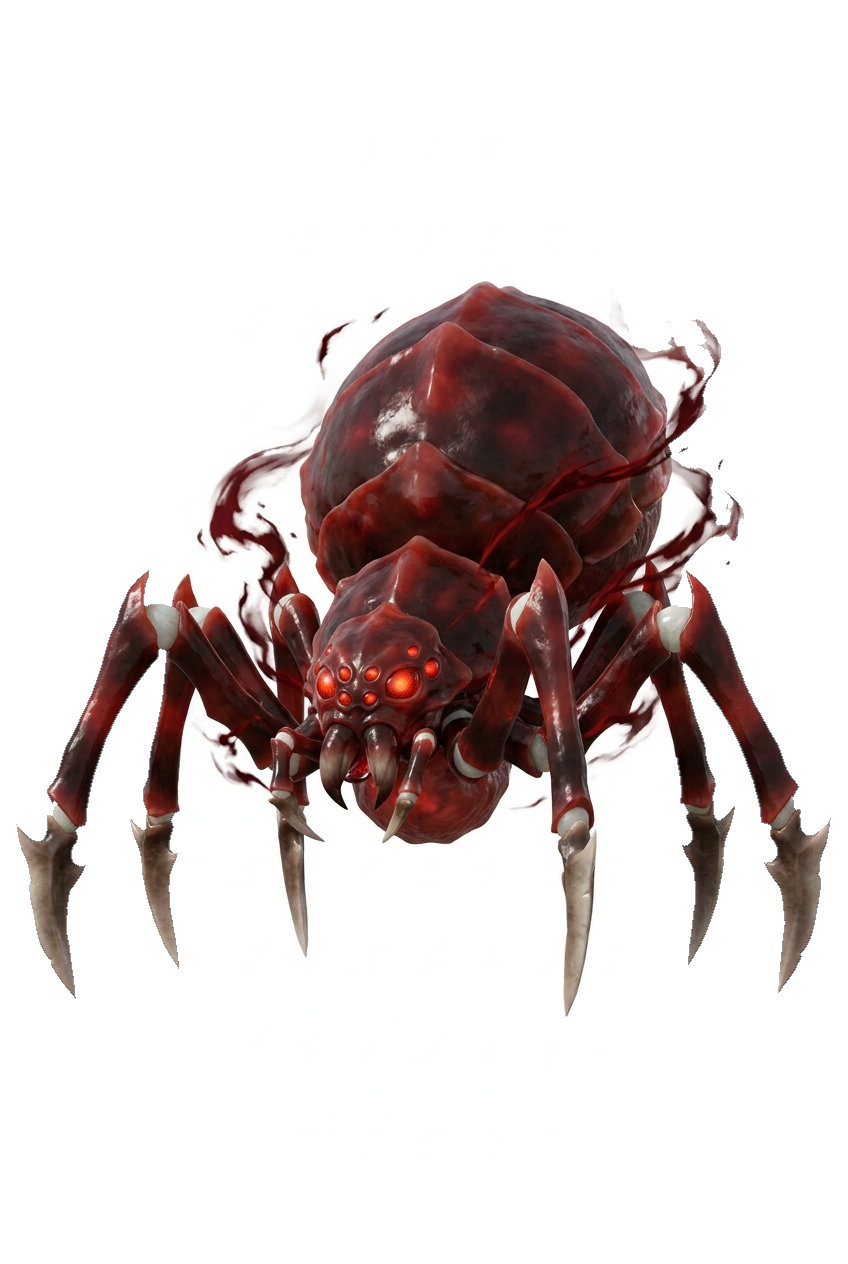
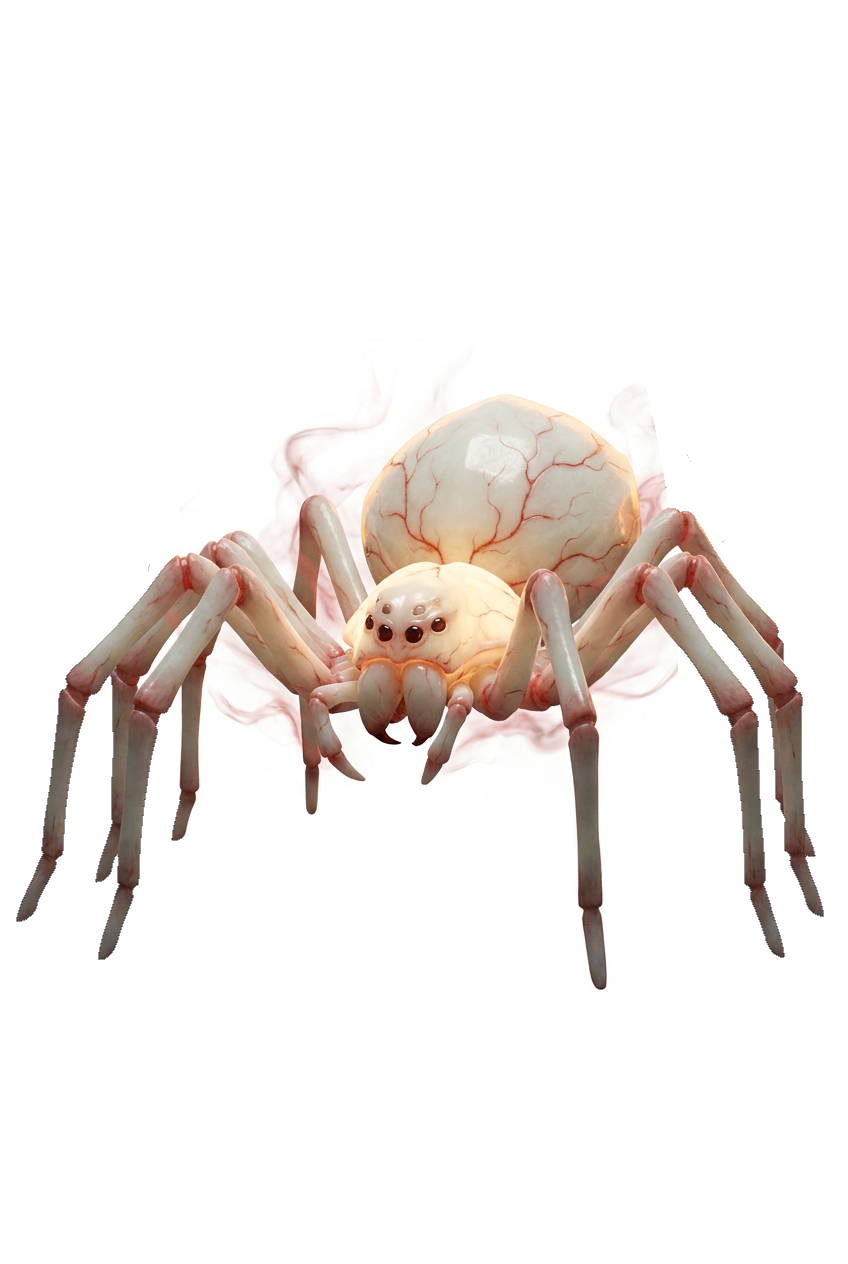
增量E·美术返修：血玉蜘蛛改剧版白玉蜘蛛风（去恐怖向）→ v156
按用户反馈「不要做的这么吓人，搜一下剧版的样子」，调研动画版血玉蜘蛛造型
（白玉蜘蛛变异·通体羊脂白玉+血红沁纹），重写 genart prompt 并以 HQ 模型重生
xueyu_zhizhu 图鉴像 + bt_xueyu_zhizhu 战立：由写实恐怖向（暗红凝血甲壳·猩红
复眼·森然獠牙）改为剧版精怪灵兽风（白玉莹润·血玉红纹·眼神沉静·不露血腥）。
ASSET_VER 18→19 强制刷新缓存。

Changed region(s): [[0.0, 0.216, 0.9811, 0.8022]]

diff --git a/scripts/genart.js b/scripts/genart.js
@@ -231,12 +231,12 @@ const BATTLE_DEFS = {
   chenqiaoqian_sad: { kind: "portrait", hq: true, guard: true, file: "chenqiaoqian_sad", prompt: "黄枫谷女修陈巧倩，十六七岁清冷的少女修士，乌黑长发松挽斜插一支银簪，目冷神坚的清冷眉眼此刻泛红噙着泪光、唇角微抿强自镇定，一身白色滚边修士长裙、气质清寒——故人重逢的动容与强抑的悲恸交织，清冷面容下藏不住的一缕哽咽" },
   lvtianmeng: { kind: "portrait", hq: true, prompt: "灵兽山修士吕天蒙，四十岁上下沉毅刚硬的男修，黑发束起鬓角微霜、面庞棱角分明带着风霜与一道旧刀疤，眉头惯性紧锁、眼神沉冷而内藏几分对属下的照拂，身着灰褐色镶铁片的征军小队官劲装、肩覆旧皮甲，腰悬一截青铜短尺，久经沙场沉默寡言的老队官气度" },
   xuanle: { kind: "portrait", hq: true, prompt: "掩月宗修士宣乐，二十七八岁阴柔精瘦的男修，乌发束起几缕垂落、面容清减，唇角噙着一抹温吞却令人发寒的浅笑，眼神阴鸷藏奸，身着灰青色征卒短打外罩深色软甲——看似人畜无害的笑面之下尽是算计，伺机背刺的阴手刺客气质" },
-  xueyu_zhizhu: { kind: "portrait", hq: true, guard: true, prompt: "图鉴立绘·血玉蜘蛛：四级蛛妖的半身特写，巨大的血玉色甲壳蛛首占据画面，一对猩红复眼幽光慑人，巨颚獠牙微张，甲壳暗红如凝血泛着温润玉光、关节处隐透白玉底色，背景幽暗矿洞结着暗红蛛丝网，妖异凶丽" },
+  xueyu_zhizhu: { kind: "portrait", hq: true, guard: true, prompt: "图鉴立绘·血玉蜘蛛（剧版《凡人修仙传》动画3D渲染风格）：四级蛛妖·白玉蜘蛛之变异，半身特写一头通体如羊脂白玉的巨蛛，宽阔圆润的玉质头胸甲壳莹润生光、白玉之中天然游走着血红色的沁纹（血玉之名所本），数只乌沉澄澈的眼眸沉静幽光、温和并不狰狞，巨颚收敛微启不露血腥獠牙，长足修长覆白玉甲、骨节处透出淡淡血红，背景是幽暗矿洞与朦胧蛛丝微光，气度雍容凛然——是矿洞深处沉眠的灵兽精怪而非血腥恐怖之物" },
   // 战斗全身立绘（battlers/）
   bt_xuanle: { kind: "battler", hq: true, ref: "portraits/xuanle.png",
                prompt: "同一人物的完整全身战斗姿态：掩月宗阴手宣乐，灰青色征卒短打外罩深色软甲，压低身形、一手反握泛着幽蓝毒光的淬毒短匕作潜袭背刺之势，另一手隐于袖中掐着一道阴符，唇角噙着发寒浅笑、眼神阴鸷，周身敛息匿形透出金属般阴冷煞气，阴手刺客的偷袭杀机" },
   bt_xueyu_zhizhu: { kind: "battler", hq: true, guard: true,
-               prompt: "一头四级蛛妖·血玉蜘蛛，体型如磨盘般巨大的蜘蛛妖兽，通体覆盖半透的血玉色甲壳（暗红如凝血的玉质甲壳泛着温润光泽、关节处隐透白玉底色），八足如戟、足尖锋利如骨刃撑地，头胸前一对猩红复眼如鬼火幽幽，巨颚獠牙森然外张，腹下垂着血色丝囊，周身缭绕暗红土煞妖气，封印松脱后狂暴凶戾、压迫感十足的狂化凶相" },
+               prompt: "一头四级蛛妖·血玉蜘蛛（剧版《凡人修仙传》动画3D渲染风格），体型如磨盘的巨蛛全身战姿，通体覆莹润的羊脂白玉色甲壳、温玉光泽，白玉甲面天然游走着丝丝血红玉纹（血玉之名所本），八足修长如白玉之戟稳稳撑地、骨节处透出淡红，宽阔圆润的玉色头胸高昂，数只乌沉澄澈的眼眸沉静生光、巨颚微张却不露血腥獠牙，封印初松而周身萦绕淡淡红气，气势凛然威武——矿洞灵兽精怪的磅礴压迫感，而非血腥恐怖凶相" },
   // 演出 CG（assets/cg/cg_*.png 横版底；竖版 _p 在 P_CGS）
   cg_kuangchang: { kind: "cg", hq: true, file: "cg_kuangchang", prompt: "黑风岭魔道前线矿场地表全景：荒凉的灵矿山岭间一片露天矿场，赭褐裸露的矿脉山壁下散布着征军木栅营垒、战旗幡帜与简陋矿道入口，几架矿车与绞盘错落，远处战火狼烟升腾、天色阴沉血红，正魔死争的肃杀战地氛围，无人物" },
   cg_kuangdong: { kind: "cg", hq: true, file: "cg_kuangdong", prompt: "黑风岭地底矿洞坑道内景：幽暗逼仄的矿道，岩壁裸露泛着幽光的灵矿矿脉与暗红蛛丝交错，几根支撑木梁与悬挂的矿灯投下昏黄火光，地面散落碎矿石与塌方乱石，深处一片浓重黑暗，阴森压抑、危机四伏的地底矿窟氛围，无人物" },

diff --git a/index.html b/index.html
@@ -3,7 +3,7 @@
 <head>
   <meta charset="UTF-8" />
   <meta name="viewport" content="width=device-width, initial-scale=1.0, maximum-scale=1.0, user-scalable=no" />
-  <meta name="build" content="155" />
+  <meta name="build" content="156" />
   <meta http-equiv="Cache-Control" content="no-cache, no-store, must-revalidate" />
   <meta http-equiv="Pragma" content="no-cache" />
   <meta http-equiv="Expires" content="0" />
@@ -52,15 +52,15 @@
   })();
   </script>
   <title>凡人修仙传 · 修仙模拟 MVP</title>
-  <link rel="stylesheet" href="css/style.css?v=155" />
+  <link rel="stylesheet" href="css/style.css?v=156" />
   <!-- PWA：可装主屏 / 离线可玩 / 全屏（v105 起） -->
-  <link rel="manifest" href="manifest.webmanifest?v=155" />
+  <link rel="manifest" href="manifest.webmanifest?v=156" />
   <meta name="theme-color" content="#14110b" />
   <meta name="mobile-web-app-capable" content="yes" />
   <meta name="apple-mobile-web-app-capable" content="yes" />
   <meta name="apple-mobile-web-app-status-bar-style" content="black" />
   <meta name="apple-mobile-web-app-title" content="凡人修仙传" />
-  <link rel="apple-touch-icon" href="apple-touch-icon.png?v=155" />
+  <link rel="apple-touch-icon" href="apple-touch-icon.png?v=156" />
 </head>
 <body>
   <div id="app">
@@ -92,7 +92,7 @@
 
         <button id="btn-start" class="btn btn-primary" disabled>踏 入 此 界</button>
         <button id="btn-load" class="btn btn-ghost">读取存档</button>
-        <div class="build-tag">build v155</div>
+        <div class="build-tag">build v156</div>
       </div>
     </section>
 
@@ -340,35 +340,35 @@
     <div id="toast" class="toast" hidden></div>
   </div>
 
-  <script src="js/data.js?v=155"></script>
-  <script src="js/state.js?v=155"></script>
-  <script src="js/chapters.js?v=155"></script>
-  <script src="js/balance.js?v=155"></script>
-  <script src="js/world.js?v=155"></script>
-  <script src="js/npcsim.js?v=155"></script>
-  <script src="js/interactions.js?v=155"></script>
-  <script src="js/warlines.js?v=155"></script>
-  <script src="js/combat.js?v=155"></script>
-  <script src="js/explore.js?v=155"></script>
-  <script src="js/exploremap.js?v=155"></script>
-  <script src="js/loadout.js?v=155"></script>
-  <script src="js/dialogue.js?v=155"></script>
-  <script src="js/llm.js?v=155"></script>
-  <script src="js/audio.js?v=155"></script>
-  <script src="js/fx.js?v=155"></script>
-  <script src="js/art.js?v=155"></script>
-  <script src="js/cutscene.js?v=155"></script>
-  <script src="js/fortunes.js?v=155"></script>
-  <script src="js/quests.js?v=155"></script>
-  <script src="js/story.js?v=155"></script>
-  <script src="js/engine.js?v=155"></script>
-  <script src="js/ui.js?v=155"></script>
-  <script src="js/main.js?v=155"></script>
+  <script src="js/data.js?v=156"></script>
+  <script src="js/state.js?v=156"></script>
+  <script src="js/chapters.js?v=156"></script>
+  <script src="js/balance.js?v=156"></script>
+  <script src="js/world.js?v=156"></script>
+  <script src="js/npcsim.js?v=156"></script>
+  <script src="js/interactions.js?v=156"></script>
+  <script src="js/warlines.js?v=156"></script>
+  <script src="js/combat.js?v=156"></script>
+  <script src="js/explore.js?v=156"></script>
+  <script src="js/exploremap.js?v=156"></script>
+  <script src="js/loadout.js?v=156"></script>
+  <script src="js/dialogue.js?v=156"></script>
+  <script src="js/llm.js?v=156"></script>
+  <script src="js/audio.js?v=156"></script>
+  <script src="js/fx.js?v=156"></script>
+  <script src="js/art.js?v=156"></script>
+  <script src="js/cutscene.js?v=156"></script>
+  <script src="js/fortunes.js?v=156"></script>
+  <script src="js/quests.js?v=156"></script>
+  <script src="js/story.js?v=156"></script>
+  <script src="js/engine.js?v=156"></script>
+  <script src="js/ui.js?v=156"></script>
+  <script src="js/main.js?v=156"></script>
   <script>
   /* 注册 Service Worker（离线/装主屏）。注册 URL 带 ?v=，每次发版自动更新 SW。 */
   if ("serviceWorker" in navigator) {
     window.addEventListener("load", function () {
-      navigator.serviceWorker.register("sw.js?v=155", { scope: "./" }).catch(function () {});
+      navigator.serviceWorker.register("sw.js?v=156", { scope: "./" }).catch(function () {});
     });
   }
   </script>

diff --git a/js/art.js b/js/art.js
@@ -89,7 +89,7 @@
 
   const Art = {
     // 仓库图更新后 bump，强制浏览器重新拉取（避免旧缓存）。
-    ASSET_VER: 18,
+    ASSET_VER: 19,
 
     _v(p) { return p + "?v=" + this.ASSET_VER; },
 
